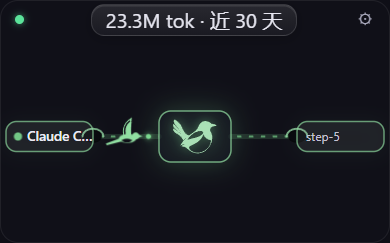
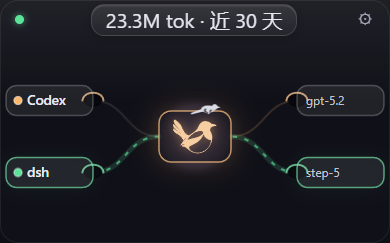
修复穿越栖木后不再飞向账号的崩溃；速度表改 Map；鸟加大、辉光光晕、卡片高光

Changed region(s): [[0.0, 0.3457, 1.0, 0.7778], [0.6769, 0.4321, 0.7077, 0.4897], [0.9846, 0.4033, 1.0, 0.4321]]

diff --git a/web/app.js b/web/app.js
@@ -108,7 +108,10 @@ function buildHub() {
   });
   const glyph = svgEl('g', { transform: `translate(${(HUB.left + HUB.right) / 2 - 15} ${HUB.y - 15}) scale(0.68)` });
   glyph.append(hubGlyph);
-  hubLayer.append(hubBox, glyph);
+  const glow = svgEl('circle', {
+    class: 'hub-glow', cx: (HUB.left + HUB.right) / 2, cy: HUB.y, r: 30, fill: 'url(#glowGrad)',
+  });
+  hubLayer.append(glow, hubBox, glyph);
   // The perch bird stands on the hub card's top edge, facing right.
   perch.setAttribute('transform', `translate(${HUB.right - 4} ${HUB.y - 19}) scale(0.5)`);
   perch.style.display = 'none';
@@ -299,7 +302,7 @@ function flightPoint(flight, distance) {
   return path.getPointAtLength(reverse ? length - remaining : remaining);
 }
 
-function poseBird(flight, p, vx, vy, scale = 0.62) {
+function poseBird(flight, p, vx, vy, scale = 0.72) {
   const flip = vx < 0 ? -1 : 1;
   const aim = Math.max(-22, Math.min(22, Math.atan2(vy, Math.abs(vx) || 1) * 180 / Math.PI));
   if (flight.aim === null || flight.aimFlip !== (vx < 0)) flight.aim = aim;
@@ -321,7 +324,7 @@ function ripple() {
   }, 700);
 }
 
-function flyTo(flight, spec, ms, crossAt = -1) {
+function flyTo(flight, spec, ms) {
   return new Promise((resolve) => {
     const started = performance.now();
     let crossed = false;
@@ -330,9 +333,12 @@ function flyTo(flight, spec, ms, crossAt = -1) {
       if (!buildLegs(flight, spec)) { resolve(); return; }
       const progress = Math.max(0, Math.min(1, (now - started) / ms));
       const distance = glideProgress(progress) * flight.length;
-      if (!crossed && crossAt >= 0 && distance >= crossAt) {
-        crossed = true;
-        ripple();
+      if (!crossed) {
+        const crossAt = crossingDistance(spec, flight);
+        if (crossAt >= 0 && distance >= crossAt) {
+          crossed = true;
+          ripple();
+        }
       }
       const p = flightPoint(flight, distance);
       const p0 = flightPoint(flight, distance - 3);
@@ -361,9 +367,9 @@ function setPose(flight, pose) {
 function holdAt(flight, where) {
   setPose(flight, `hold-${where}`);
   if (where === 'hub') {
-    flight.bird.setAttribute('transform', `translate(${HUB.left + 2} ${HUB.y}) scale(0.62)`);
+    flight.bird.setAttribute('transform', `translate(${HUB.left + 2} ${HUB.y}) scale(0.72)`);
   } else {
-    flight.bird.setAttribute('transform', `translate(${ACCOUNT_X} ${laneY(flight.lane)}) scale(0.62)`);
+    flight.bird.setAttribute('transform', `translate(${ACCOUNT_X} ${laneY(flight.lane)}) scale(0.72)`);
   }
 }
 
@@ -372,20 +378,24 @@ const LEGS_TO_ACCOUNT = [{ path: 'through' }, { path: 'out' }];
 const LEGS_RETURN = [{ path: 'out', reverse: true }, { path: 'through', reverse: true }, { path: 'in', reverse: true }];
 const LEGS_BACK_TO_HUB = [{ path: 'out', reverse: true }];
 
-function crossingOf(spec) {
-  if (spec === LEGS_TO_ACCOUNT) {
-    return flight => flight.legs[0].length + flight.legs[1].length / 2;
+// The crossing of the hub happens halfway through the through-leg. Read
+// lazily, AFTER the legs are built: the previous spec's legs are stale here.
+function crossingDistance(spec, flight) {
+  if (spec === LEGS_TO_ACCOUNT || spec === LEGS_RETURN) {
+    return flight.legs[0].length + flight.legs[1].length / 2;
   }
-  if (spec === LEGS_RETURN) {
-    return flight => flight.legs[0].length + flight.legs[1].length / 2;
-  }
-  return null;
+  return -1;
 }
 
-const TRAVEL_MS = { [LEGS_TO_HUB]: 720, [LEGS_TO_ACCOUNT]: 920, [LEGS_RETURN]: 1350, [LEGS_BACK_TO_HUB]: 620 };
+const TRAVEL_MS = new Map([
+  [LEGS_TO_HUB, 720],
+  [LEGS_TO_ACCOUNT, 920],
+  [LEGS_RETURN, 1350],
+  [LEGS_BACK_TO_HUB, 620],
+]);
 
 function travel(flight, spec) {
-  return flyTo(flight, spec, TRAVEL_MS[spec] || 900, crossingOf(spec) ? crossingOf(spec)(flight) : -1);
+  return flyTo(flight, spec, TRAVEL_MS.get(spec) || 900);
 }
 
 function waitFor(flight, predicate) {
@@ -425,7 +435,7 @@ function startFlight(route) {
   bird.style.opacity = '0';
   const flier = svgEl('g', { class: 'flier' });
   flier.innerHTML = FLIER;
-  const packet = svgEl('circle', { class: 'packet', r: 2.6, cx: 0, cy: 0 });
+  const packet = svgEl('circle', { class: 'packet', r: 3, cx: 0, cy: 0 });
   bird.append(flier, packet);
   const guides = svgEl('g');
   const paths = ['in', 'out', 'through'].map(() => {
@@ -441,7 +451,11 @@ function startFlight(route) {
   };
   flights.set(id, flight);
   window.requestAnimationFrame(() => { bird.style.opacity = '1'; });
-  runFlight(flight);
+  // A thrown playback must not leave an orphan bird on the sky.
+  runFlight(flight).catch((error) => {
+    console.warn('[busy-bird] flight playback failed:', error);
+    dispose(flight);
+  });
 }
 
 async function runFlight(flight) {
@@ -568,7 +582,8 @@ function renderDot() {
 
 function applyOpacity(value) {
   const alpha = Math.min(1, Math.max(0.05, Number(value) || 0.34));
-  document.body.style.background = `rgba(16, 16, 24, ${alpha})`;
+  document.body.style.background = `linear-gradient(180deg, rgba(255,255,255,0.07), rgba(255,255,255,0) 42%), `
+    + `linear-gradient(rgba(16,16,24,${alpha}), rgba(16,16,24,${alpha}))`;
 }
 
 // The main process polls the cursor against these rectangles to decide when

diff --git a/web/styles.css b/web/styles.css
@@ -234,8 +234,8 @@ button.mini:hover { background: rgba(255, 255, 255, 0.14); }
 /* ── chips: glass cards with a colored avatar dot and a burrow ─────────── */
 
 .chip-box {
-  fill: rgba(255, 255, 255, 0.055);
-  stroke: rgba(255, 255, 255, 0.20);
+  fill: rgba(255, 255, 255, 0.07);
+  stroke: rgba(255, 255, 255, 0.22);
   stroke-width: 1;
 }
 
@@ -244,7 +244,11 @@ button.mini:hover { background: rgba(255, 255, 255, 0.14); }
   filter: drop-shadow(0 1px 6px color-mix(in srgb, var(--c, #a18bff) 30%, transparent));
 }
 
-.chip-dot { fill: var(--c, #a18bff); }
+.chip-dot {
+  fill: var(--c, #a18bff);
+  stroke: rgba(255, 255, 255, 0.55);
+  stroke-width: 0.7;
+}
 
 .chip-dot.pulse { animation: packetWait 1.3s ease-in-out infinite; }
 
